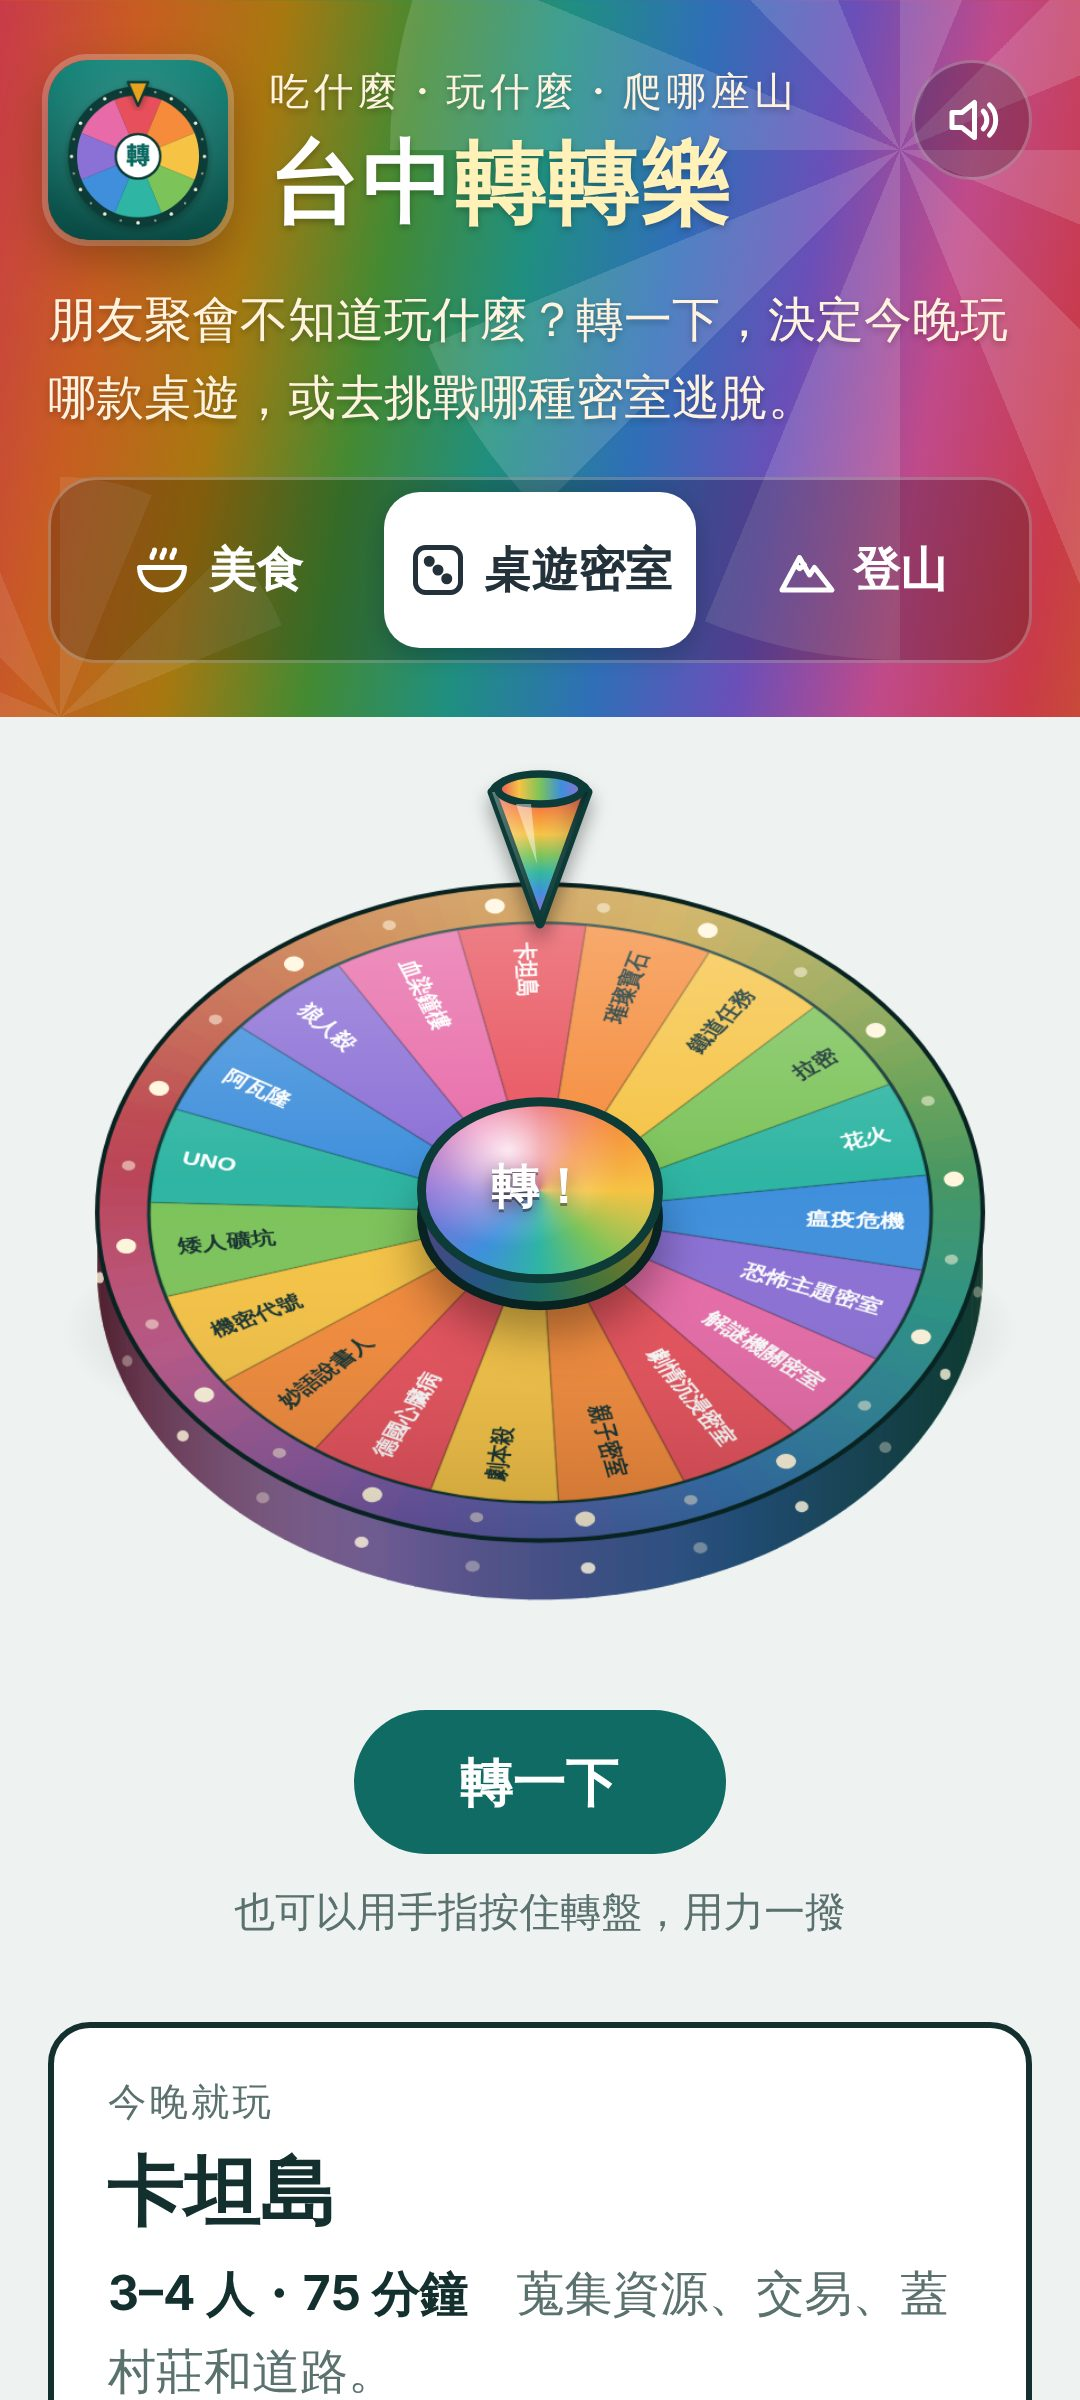
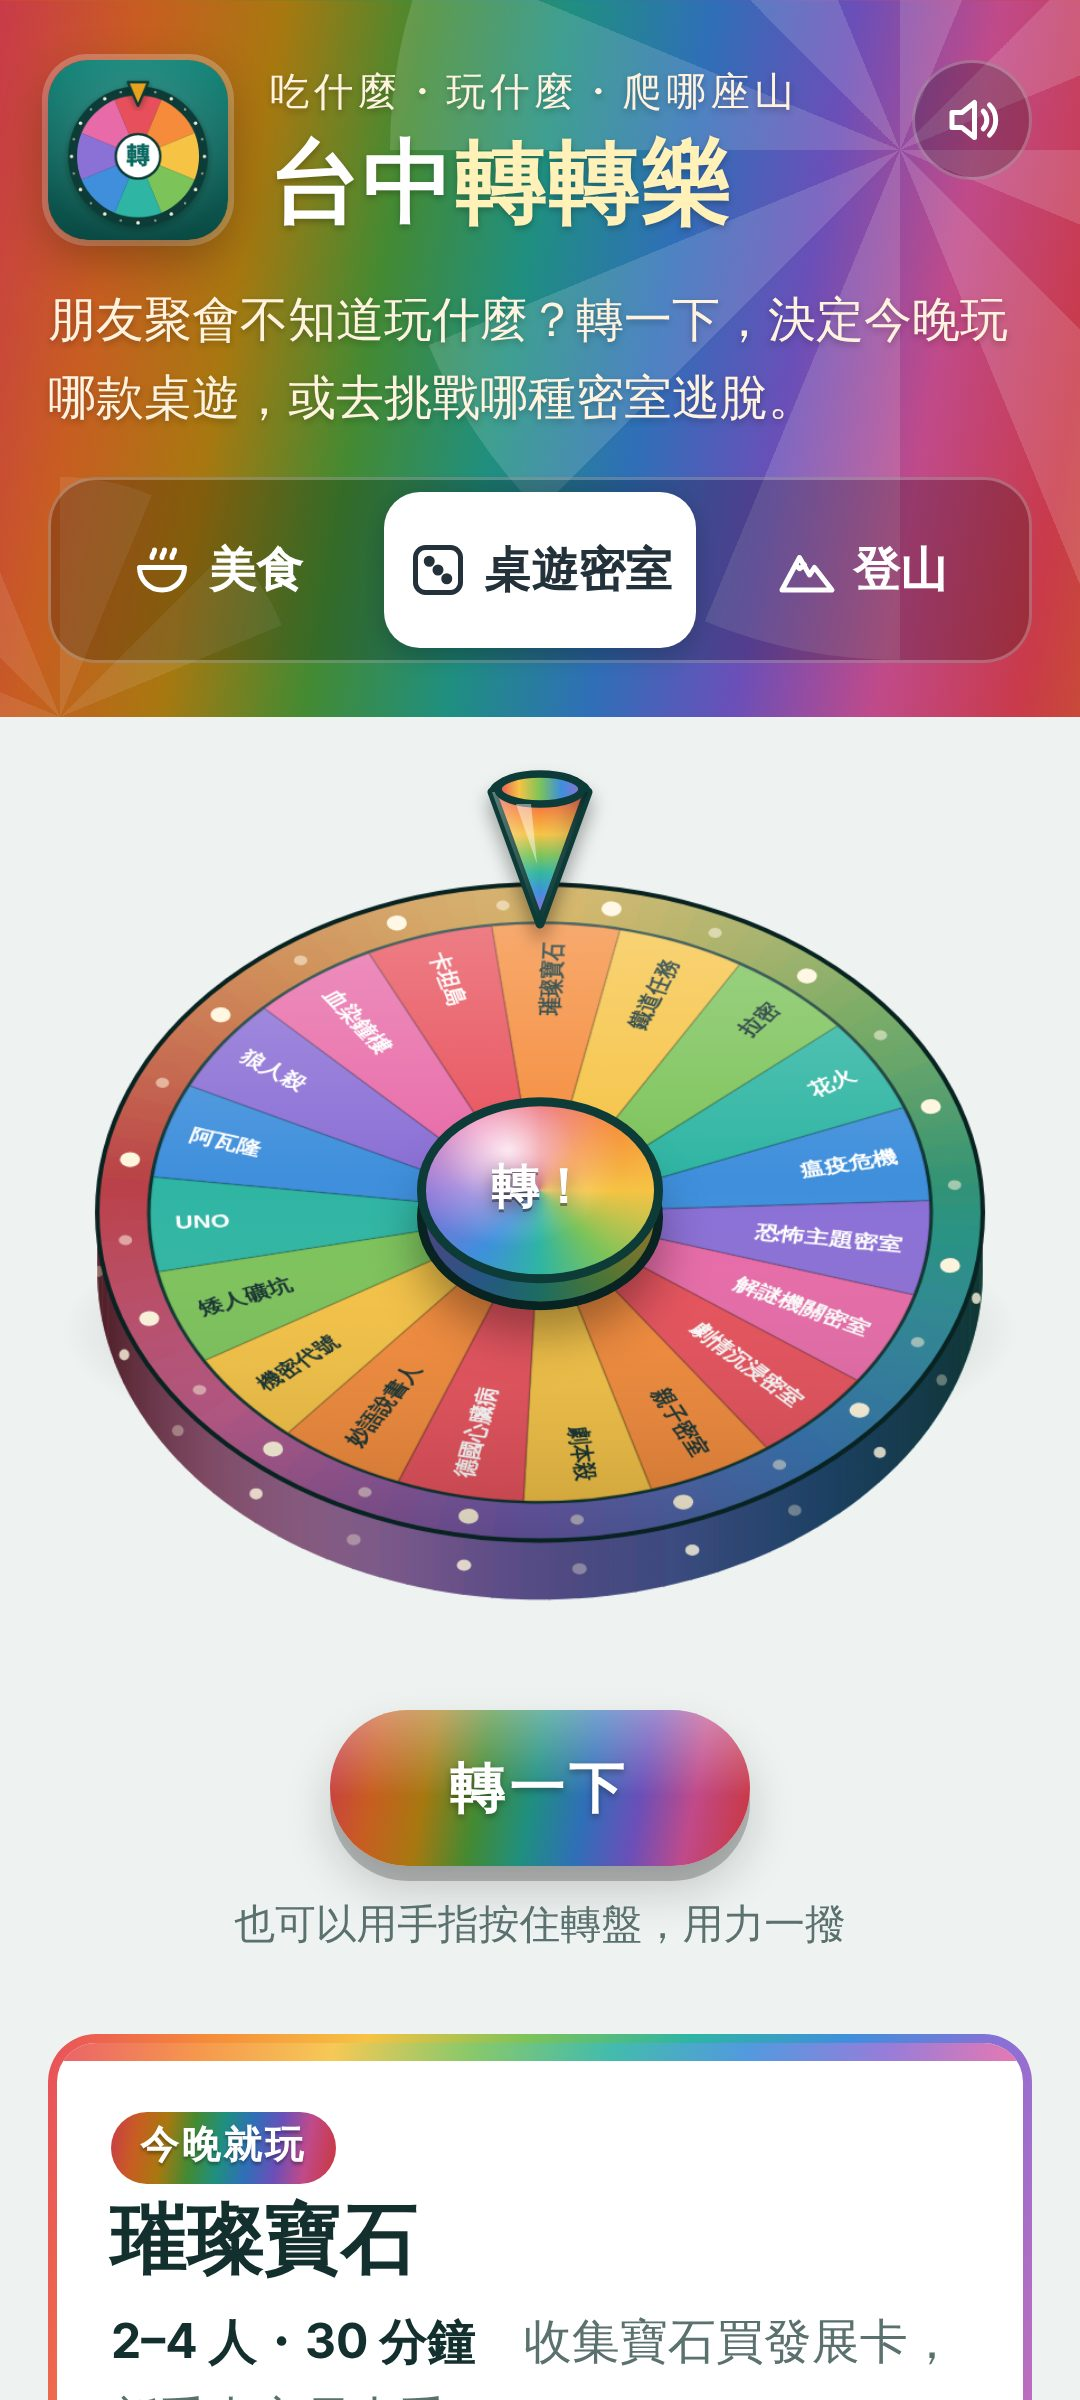
台中轉轉樂：轉一下按鈕與結果卡改成五彩
Claude-Session: https://claude.ai/code/session_01RjTRgTtaL6n1Y88vUja3y2

diff --git a/wheel/index.html b/wheel/index.html
@@ -225,20 +225,46 @@
   .hub:active:not(:disabled)::before { top: 3px; bottom: -3px; }
   .hub:disabled { cursor: wait; }
 
+  /* 「轉一下」：和頂部橫幅同一組深一階的五彩，白字才清楚 */
   .spin-btn {
-    font: 700 1.1rem var(--font-body);
-    background: var(--accent); color: var(--accent-fg);
-    border: 0; border-radius: 999px; padding: 12px 36px; min-height: 48px; cursor: pointer;
+    font: 800 1.15rem var(--font-body); letter-spacing: .08em;
+    background:
+      linear-gradient(180deg, rgba(255, 255, 255, .35) 0%, rgba(255, 255, 255, 0) 55%),
+      var(--hero-grad);
+    background-size: 100% 100%, 200% 100%;
+    background-position: 0 0, 0% 50%;
+    color: #ffffff; text-shadow: 0 1px 2px rgba(0, 0, 0, .35);
+    border: 0; border-radius: 999px; padding: 12px 40px; min-height: 52px; cursor: pointer;
+    box-shadow: 0 5px 0 rgba(0, 0, 0, .22), 0 8px 16px rgba(0, 0, 0, .18);
+    transition: transform .08s, box-shadow .08s;
   }
-  .spin-btn:disabled { opacity: .6; cursor: wait; }
+  .spin-btn:active:not(:disabled) { transform: translateY(4px); box-shadow: 0 1px 0 rgba(0, 0, 0, .22), 0 3px 8px rgba(0, 0, 0, .18); }
+  .spin-btn:disabled { cursor: wait; filter: saturate(.85); }
+  .is-spinning .spin-btn { animation: btn-flow 1.2s linear infinite; }
+  @keyframes btn-flow { from { background-position: 0 0, 0% 50%; } to { background-position: 0 0, 100% 50%; } }
   button:focus-visible, input:focus-visible { outline: 3px solid var(--sun); outline-offset: 2px; }
 
   .panel { display: grid; gap: 16px; min-width: 0; grid-template-columns: minmax(0, 1fr); }
+  /* 結果卡：彩虹外框＋上方彩虹細條 */
   .result {
-    background: var(--surface); border: 2px solid var(--fg); border-radius: 14px;
-    padding: 16px 18px; min-height: 132px;
+    position: relative; overflow: hidden;
+    border: 3px solid transparent; border-radius: 16px;
+    background:
+      linear-gradient(var(--surface), var(--surface)) padding-box,
+      linear-gradient(100deg, var(--seg-1), var(--seg-2), var(--seg-3), var(--seg-4), var(--seg-5), var(--seg-6), var(--seg-7), var(--seg-8)) border-box;
+    padding: 20px 18px 16px; min-height: 132px;
   }
-  .result .label { font-size: .8rem; letter-spacing: .08em; color: var(--muted); margin: 0; }
+  .result::before {
+    content: ""; position: absolute; left: 0; right: 0; top: 0; height: 6px;
+    background: linear-gradient(100deg, var(--seg-1), var(--seg-2), var(--seg-3), var(--seg-4), var(--seg-5), var(--seg-6), var(--seg-7), var(--seg-8));
+    opacity: .9;
+  }
+  .result .label {
+    display: inline-block; font-size: .8rem; font-weight: 700; letter-spacing: .08em; margin: 0;
+    color: #ffffff; padding: 2px 10px; border-radius: 999px;
+    background: var(--hero-grad); background-size: 200% 100%;
+    text-shadow: 0 1px 1px rgba(0, 0, 0, .3);
+  }
   .result .name { font: 900 clamp(1.6rem, 6vw, 2.2rem)/1.25 var(--font-display); margin: 4px 0; overflow-wrap: anywhere; }
   .result .meta { margin: 0; color: var(--muted); }
   .result .meta b { color: var(--fg); font-weight: 700; }
@@ -293,6 +319,9 @@
     padding: 8px 14px; min-height: 40px; display: inline-flex; align-items: center; cursor: pointer;
   }
   .action:hover { border-color: var(--fg); }
+  #result-map { border-color: var(--seg-6); }
+  #result-share { border-color: var(--seg-8); }
+  #result-again { border-color: var(--seg-4); }
   a.action:focus-visible { outline: 3px solid var(--sun); outline-offset: 2px; }
   .share-msg { margin: 8px 0 0; font-size: .85rem; color: var(--muted); }
 
@@ -307,7 +336,7 @@
   .toggle { display: flex; gap: 10px; align-items: center; font-size: .92rem; cursor: pointer; min-height: 40px; }
   .toggle input { width: 20px; height: 20px; accent-color: var(--accent); flex: none; }
 
-  @media (prefers-reduced-motion: reduce) { .result.pop .name, .result.win { animation: none; } }
+  @media (prefers-reduced-motion: reduce) { .result.pop .name, .result.win, .is-spinning .spin-btn { animation: none; } }
 </style>
 
 <header class="hero">

diff --git a/wheel/sw.js b/wheel/sw.js
@@ -1,6 +1,6 @@
 // 台中轉轉樂的 service worker：先存好 App 檔案，沒有網路也能開啟。
 // 修改任何檔案後，請把 CACHE 的版本號加一，手機才會更新到新版。
-const CACHE = "taichung-wheels-v12";
+const CACHE = "taichung-wheels-v13";
 const FILES = [
   "./",
   "./index.html",
